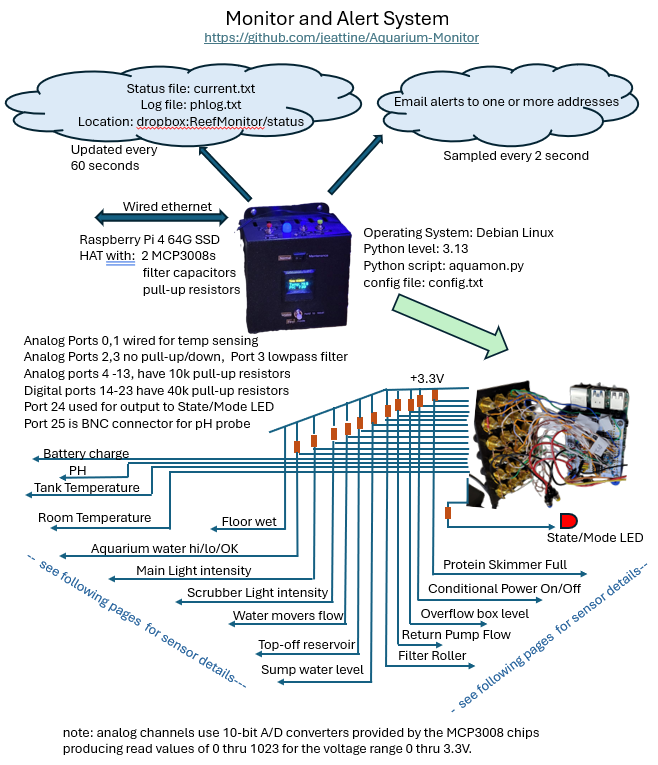
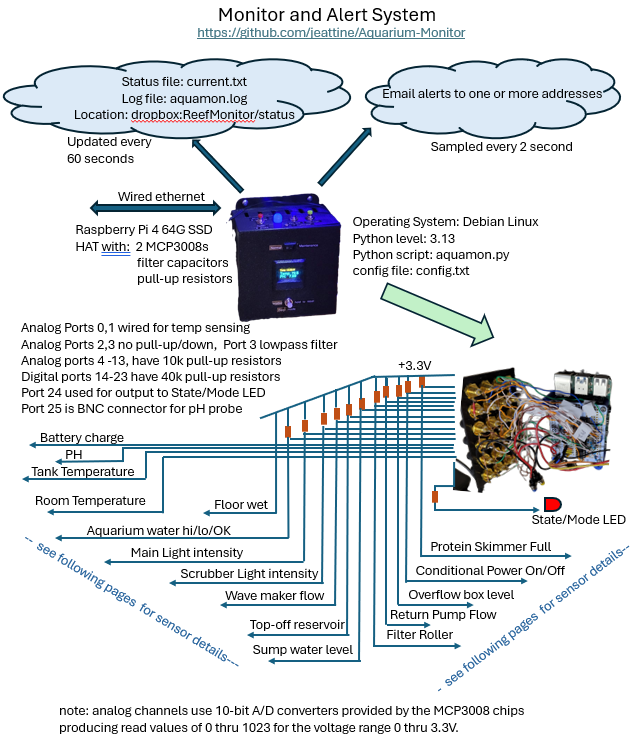
Readme corrections
Readme corrections

Changed region(s): [[0.0, 0.0, 0.9937, 0.9919], [0.542, 0.186, 0.5721, 0.217], [0.5119, 0.217, 0.542, 0.248]]

diff --git a/README.md b/README.md
@@ -3,7 +3,7 @@
 
 ![Assembled3](./images/assembled3.jpg)
 
-Python-based aquarium monitor program running under the Raspberry Pi OS Lite Linux operating system on a Raspberry Pi 4 board. A Adafruit Perma-Proto Hat is mounted on the board to house two MCP3008 10-bit ADC with SPI interface. An Atlas scientific PH EZO with isolated carrier board is attach to the I2C interface of the processor. The MCP3008's and the PH EZO provide the analog inputs to the monitor. The HAT also provides solder pads for each of the other GPIO pins used as digital inputs. The monitor has 23 RCA sockets and one BNC socket for input of the sensors. The BNC socket is used for the PH probe. One RCA socket is used for output for the alarm/maintenance_mode LED indicator. The monitor has a button to force a reset or a shutdown of the OS/monitor and a switch to enter a maintenance mode which disables alerts and enables pH calibration. There is also a Feed Mode button that allows pumps to be turned off during feeding without generating alerts. The monitor provides two buttons for the calibration of the PH probe, with a PH-Mid and a PH-High that can be set to the values of the calibration fluid in the configuration file or the override file. The calibration is saved internally and does not rely on providing external calibration data. When performing the calibration, the display will show *Maintenance* text along with the current pH value. The pH value display is helpful during pH calibration so that it can be seen that the PH values have stabilized with the probe in the calibration fluid. The condition of the pH probe in terms of a percentage from an ideal probe will be displayed in the OLED screen for 4 seconds after calibrating. A log file containg hourly snapshots of the PH value, Temperature, Calibration actions, Feed mode on/off, maintenance mode on/off, and Alerts can be observed in a cloud folder. A status file containing current information from all the sensors can be observed in the same cloud folder (dropbox and onedrive supported). I am using Dropbox as my cloud provider due to the simplicity of setting this up on Linux. The storing of the status and log file is accomplished using 'rclone copyto'. Monitor alerts are surfaced by emails sent to the recipients listed in the configuration file. The monitor will autostart after the Linux OS boots. It is started via a service and set to be restarted if it abnormally terminates or hangs using the WATCHDOG support in Linux. 
+Python-based aquarium monitor program running under the Raspberry Pi OS Lite Linux operating system on a Raspberry Pi 4 board. A Adafruit Perma-Proto Hat is mounted on the board to house two MCP3008 10-bit ADC with SPI interface. An Atlas scientific PH EZO with isolated carrier board is attach to the I2C interface of the processor. The MCP3008's and the PH EZO provide the analog inputs to the monitor. The HAT also provides solder pads for each of the other GPIO pins used as digital inputs. The monitor has 23 RCA sockets and one BNC socket for input of the sensors. The BNC socket is used for the PH probe. One RCA socket is used for output for the alarm/maintenance_mode LED indicator. The monitor has a button to force a reset or a shutdown of the OS/monitor and a switch to enter a maintenance mode which disables alerts and enables pH calibration. There is also a Feed Mode button that allows pumps to be turned off during feeding without generating alerts. The monitor provides two buttons for the calibration of the PH probe, with a PH-Mid and a PH-High that can be set to the values of the calibration fluid in the configuration file or the override file. The calibration is saved internally and does not rely on providing external calibration data. When performing the calibration, the display will show *Maintenance* text along with the current pH value. The pH value display is helpful during pH calibration so that it can be seen that the PH values have stabilized with the probe in the calibration fluid. The condition of the pH probe in terms of a percentage from an ideal probe will be displayed in the OLED screen for 4 seconds after calibrating. A log file containing hourly snapshots of the PH value, Temperature, Calibration actions, Feed mode on/off, maintenance mode on/off, and Alerts can be observed in a cloud folder. A status file containing current information from all the sensors can be observed in the same cloud folder (dropbox and onedrive supported). I am using Dropbox as my cloud provider due to the simplicity of setting this up on Linux. The storing of the status and log file is accomplished using 'rclone copyto'. Monitor alerts are surfaced by emails sent to the recipients listed in the configuration file. The monitor will autostart after the Linux OS boots. It is started via a service and set to be restarted if it abnormally terminates or hangs using the WATCHDOG support in Linux. 
 
 The program design has a 'Main' that constructs a Control object and loops calling methods on the Control object instantiation. 'Main' will stay in a continuous loop until an exception or a termination event causes it to exit. The input to the program is a config.txt file expected to be in the current directory. This file is composed of two sections. The first section assigns the port numbers of the hardware to various classes to read and process the sensor data connected to those port inputs. Some examples are classes to monitor temperature, Flow, water level, and light. These classes are derived from either a GPIO_Digital or a GPIO_Analog class, depending on the type of sensor. The GPIO_Digital class, GPIO_Analog class, and PH class are each derived from the Sensor base class. In addition to the port assignment to classes, this section of the config file also gives a descriptive name to each port input and defines the expected values/ranges/time-periods for operation. Another input to the program is the override.txt file. This file resides at a cloud location, either Dropbox or Onedrive depending on how the system is configured. This override file provides a convenient way to modify a subset of the settings in the config.txt file. For example when going on vacation I may want to modify the recipient list of the email alerts. I can do this by simply modifying the override file in the cloud folder from any device that has access to that folder. 
 
